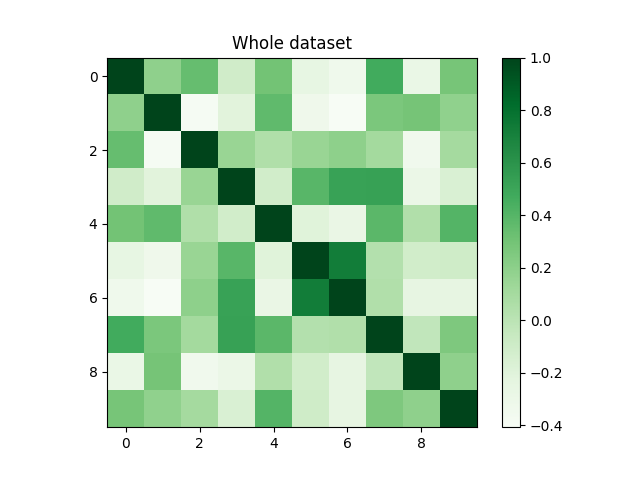
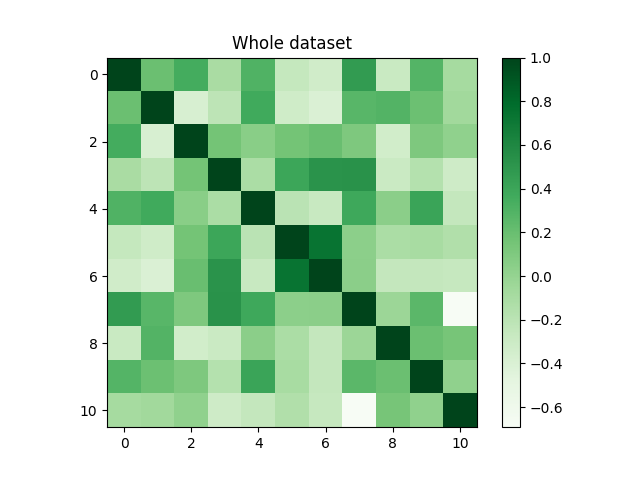
bug 11 features

diff --git a/validation_results.py b/validation_results.py
@@ -46,6 +46,11 @@ def print_table_MVG_classifiers_minDCF(DTR, LTR, prior, cost_fn, cost_fp, k):
     print("*** minDCF - RAW (normalized) FEATURES - NO PCA ***")
     MVG_Classifiers_minDCF(normalized_data)
     
+    #------------------------RAW FEATURES (normalized) WITH PCA = 10 --------------------
+    principal_components10 = redTec.PCA(normalized_data, 10)
+    print("*** minDCF - RAW (normalized) FEATURES -  PCA (m=10) ***")
+    MVG_Classifiers_minDCF(principal_components10)       
+
 
     #------------------------RAW FEATURES (normalized) WITH PCA = 9 --------------------
     principal_components9 = redTec.PCA(normalized_data, 9)
@@ -55,7 +60,7 @@ def print_table_MVG_classifiers_minDCF(DTR, LTR, prior, cost_fn, cost_fp, k):
 
     #------------------------RAW FEATURES (normalized) WITH PCA = 8 --------------------
     
-    principal_components8,_= redTec.PCA(normalized_data, 8)
+    principal_components8= redTec.PCA(normalized_data, 8)
     print("*** minDCF - RAW (normalized) FEATURES -  PCA (m=8) ***")
     MVG_Classifiers_minDCF(principal_components8)    
 
@@ -66,6 +71,11 @@ def print_table_MVG_classifiers_minDCF(DTR, LTR, prior, cost_fn, cost_fp, k):
     print("*** minDCF - GAUSSIANIZED FEATURES - NO PCA ***")
     MVG_Classifiers_minDCF(gaussianizedFeatures)
 
+    #------------------------GAUSSIANIZED FEATURES WITH PCA = 10 --------------------
+    print("*** minDCF - GAUSSIANIZED FEATURES -  PCA m=10 ***")
+    principal_components10= redTec.PCA(normalized_data, 10)
+    gaussianized_principal_components_10 = preprocessing.gaussianization(principal_components10)
+    MVG_Classifiers_minDCF(gaussianized_principal_components_10)     
 
     #------------------------GAUSSIANIZED FEATURES WITH PCA = 9 --------------------
     print("*** minDCF - GAUSSIANIZED FEATURES -  PCA m=9 ***")
@@ -298,7 +308,7 @@ def print_table_Quadratic_LR_minDCF(DTR, LTR, prior, cost_fn, cost_fp, k):
 
     def Quad_LR_minDCF(data):
             lam = 10**(-7)
-            '''
+            
             pi_T = 0.5
             min_DCF_LR,_,_ = model_validation.k_cross_DCF(data, LTR, k, logisticRegression.Quadratic_LR_logLikelihoodRatios, prior , cost_fn, cost_fp, [lam, pi_T])
             print("[5-Folds]  -  lam = 10^-7, pi_T = 0.5: ",min_DCF_LR)  
@@ -310,7 +320,7 @@ def print_table_Quadratic_LR_minDCF(DTR, LTR, prior, cost_fn, cost_fp, k):
             pi_T = 0.9
             min_DCF_LR,_,_ = model_validation.k_cross_DCF(data, LTR, k, logisticRegression.Quadratic_LR_logLikelihoodRatios, prior , cost_fn, cost_fp, [lam, pi_T])
             print("[5-Folds]  -  lam = 10^-7, pi_T = 0.9: ",min_DCF_LR)
-            '''
+            
 
             N = LTR.size #tot number of samples
             n_T = (1*(LTR==1)).sum() #num of samples belonging to the true class

diff --git a/main.py b/main.py
@@ -34,7 +34,7 @@ def load(fname):
     with open(fname) as f:
         for line in f:
             try:
-                attrs = line.split(',')[0:10]
+                attrs = line.split(',')[0:11]
                 attrs = mcol(numpy.array([float(i) for i in attrs]))
                 label = int(line.split(',')[-1].strip())
                 DList.append(attrs)
@@ -110,17 +110,17 @@ if __name__ == '__main__':
     
     
     # Plot scatters
-    '''
+    
     stats.plot_scatter(preprocessing.Z_normalization(DTR), LTR, "Raw")
     stats.plot_scatter(preprocessing.gaussianization(DTR), LTR, "Gaussianized")
-    '''
-    '''
+    
+    
     ## heat maps of the gaussianized features to show correlations between features
     stats.plot_heatmaps(preprocessing.gaussianization(DTR), LTR, "Stat/HeatMaps/Gaussianized")
     stats.plot_heatmaps(preprocessing.Z_normalization(DTR), LTR, "Stat/HeatMaps/Normalized")
     stats.plot_heatmaps(DTR, LTR, "Stat/HeatMaps/Raw")
-    '''
-    '''
+    
+    
     ##enstablish if data are balanced
     #Training
     n_high_qty = numpy.count_nonzero(LTR == 1)
@@ -133,13 +133,13 @@ if __name__ == '__main__':
     n_low_qty = numpy.count_nonzero(LTE == 0)
     stats.bars_numsamples(n_high_qty, n_low_qty, "Test")
     print("test, high:", n_high_qty, "low: ", n_low_qty)
-    '''
+    
     
     ##choose k for k cross validation
     k = 5
 
     ##VALIDATION OF THE CLASSIFIERS : 
-    #validation_results.print_all(DTR, LTR, k)
+    validation_results.print_all(DTR, LTR, k)
 
     ##EVALUATION OF THE CLASSIFIERS :
     '''

diff --git a/report.md b/report.md
@@ -20,7 +20,10 @@ The training set contains 613 samples belonging to the "high quality" class and 
 
 In the following graphs are shown the comparisons between the number of samples of the two classes in both training and test data set. It is visible that both the number of samples and the ratio between the two classes in the different data sets is close.
 
-<img src="Stat\hist_number_of_data_Training.png" style="zoom: 67%;" /> <img src="Stat\hist_number_of_data_Test.png" style="zoom: 67%;" />
+| <img src="Stat\hist_number_of_data_Training.png" style="zoom: 67%;" /> | <img src="Stat\hist_number_of_data_Test.png" style="zoom: 67%;" /> |
+| ------------------------------------------------------------ | ------------------------------------------------------------ |
+
+
 
 
 
@@ -56,7 +59,7 @@ The histograms below show the distributions of the training dataset features. Or
 | :----------------------------------------------------------: | ------------------------------------------------------------ | ------------------------------------------------------------ |
 | <img src="Stat\Hist\Normalized\hist_3.png" style="zoom:67%;" /> | <img src="Stat\Hist\Normalized\hist_4.png" style="zoom:67%;" /> | <img src="Stat\Hist\Normalized\hist_5.png" style="zoom:67%;" /> |
 | <img src="Stat\Hist\Normalized\hist_6.png" style="zoom:67%;" /> | <img src="Stat\Hist\Normalized\hist_7.png" style="zoom:67%;" /> | <img src="Stat\Hist\Normalized\hist_8.png" style="zoom:67%;" /> |
-| <img src="Stat\Hist\Normalized\hist_9.png" style="zoom:60%;" /> | <img src="Stat\Hist\Normalized\hist_9.png" style="zoom: 67%;" /> |                                                              |
+| <img src="Stat\Hist\Normalized\hist_9.png" style="zoom:60%;" /> | <img src="Stat\Hist\Normalized\hist_10.png" style="zoom: 67%;" /> |                                                              |
 
 The analysis of the training data reveals that most of the features have an irregular distribution.
 
@@ -74,7 +77,7 @@ The histograms below show the distributions of the gaussianized features.
 | :----------------------------------------------------------: | ------------------------------------------------------------ | ------------------------------------------------------------ |
 | <img src="Stat\Hist\Gaussianized\hist_3.png" style="zoom:67%;" /> | <img src="Stat\Hist\Gaussianized\hist_4.png" style="zoom:67%;" /> | <img src="Stat\Hist\Gaussianized\hist_5.png" style="zoom:67%;" /> |
 | <img src="Stat\Hist\Gaussianized\hist_6.png" style="zoom:67%;" /> | <img src="Stat\Hist\Gaussianized\hist_7.png" style="zoom:67%;" /> | <img src="Stat\Hist\Gaussianized\hist_8.png" style="zoom:67%;" /> |
-| <img src="Stat\Hist\Gaussianized\hist_9.png" style="zoom:60%;" /> | <img src="Stat\Hist\Gaussianized\hist_9.png" style="zoom: 67%;" /> |                                                              |
+| <img src="Stat\Hist\Gaussianized\hist_9.png" style="zoom:60%;" /> | <img src="Stat\Hist\Gaussianized\hist_10.png" style="zoom: 67%;" /> |                                                              |
 
 A correlation analysis of the Gaussianized features shows that feature 5 and 6 are strongly correlated.
 
@@ -102,39 +105,49 @@ In a second moment, the K-Fold approach has been used to get more robust result.
 This because, in the K- Fold, iteratively the training set has been split into 5 folds, 4 used for training and 1 for validation, after being shuffled. At the end, the validation scores are put together and used to compute the performance metrics. In this way, there is more data available for training and validation. 
 
 ## * MVG classifiers  
-|                                       | **Single Fold** |             |             | **5-Fold**  |             |             |
-| :-----------------------------------: | --------------- | ----------- | ----------- | ----------- | ----------- | ----------- |
-|                                       | prior=0.5       | prior=0.1   | prior=0.9   | prior=0.5   | prior=0.1   | prior=0.9   |
-|       **Raw Features – no PCA**       | --------------- | ----------- | ----------- | ----------- | ----------- | ----------- |
-|            **Full - Cov**             | *0.346*         | 0.766       | 0.824       | *0.343*     | 0.795       | 0.906       |
-|             **Diag -Cov**             | 0.527           | 0.911       | 0.937       | 0.548       | 0.962       | 0.973       |
-|           **Tied Full-Cov**           | *0.355*         | 0.818       | 0.836       | *0.359*     | 0.843       | 0.827       |
-|          **Tied Diag- Cov**           | 0.521           | 0.913       | 0.983       | 0.543       | 0.970       | 0.952       |
-|  **Gaussianized Features – no PCA**   | -----------     | ----------- | ----------- | ----------- | ----------- | ----------- |
-|            **Full - Cov**             | *0.277*         | 0.791       | 0.824       | *0.306*     | 0.772       | 0.871       |
-|             **Diag -Cov**             | 0.497           | 0.901       | 0.963       | 0.516       | 0.927       | 0.975       |
-|           **Tied Full-Cov**           | 0.355           | 0.889       | 0.906       | 0.379       | 0.810       | 0.928       |
-|          **Tied Diag- Cov**           | 0.529           | 0.913       | 0.992       | 0.543       | 0.958       | 0.995       |
-|     **Raw Features – PCA (m=9)**      | -----------     | ----------- | ----------- | ----------- | ----------- | ----------- |
-|            **Full - Cov**             | 0.417           | 0.858       | 0.884       | 0.425       | 0.915       | 0.959       |
-|             **Diag -Cov**             | 0.469           | 0.910       | 0.963       | 0.517       | 0.937       | 0.986       |
-|           **Tied Full-Cov**           | 0.469           | 0.934       | 0.915       | 0.489       | 0.951       | 0.816       |
-|          **Tied Diag- Cov**           | 0.467           | 0.934       | 0.915       | 0.491       | 0.960       | 0.921       |
-| **Gaussianized Features – PCA (m=9)** | -----------     | ----------- | ----------- | ----------- | ----------- | ----------- |
-|            **Full - Cov**             | 0.398           | 0.838       | 0.872       | 0.419       | 0.911       | 0.969       |
-|             **Diag -Cov**             | 0.455           | 0.904       | 0.956       | 0.489       | 0.943       | 0.974       |
-|           **Tied Full-Cov**           | 0.469           | 0.945       | 0.935       | 0.490       | 0.938       | 0.931       |
-|          **Tied Diag- Cov**           | 0.465           | 0.909       | 0.920       | 0.495       | 0.934       | 0.938       |
-|     **Raw Features – PCA (m=8)**      | -----------     | ----------- | ----------- | ----------- | ----------- | ----------- |
-|            **Full - Cov**             | 0.421           | 0.949       | 0.915       | 0.477       | 0.990       | 0.948       |
-|             **Diag -Cov**             | 0.552           | 0.979       | 0.968       | 0.598       | 0.985       | 0.986       |
-|           **Tied Full-Cov**           | 0.504           | 0.964       | 0.887       | 0.535       | 0.982       | 0.807       |
-|          **Tied Diag- Cov**           | 0.517           | 0.964       | 0.843       | 0.537       | 0.983       | 0.893       |
-| **Gaussianized Features – PCA (m=8)** | -----------     | ----------- | ----------- | ----------- | ----------- | ----------- |
-|            **Full - Cov**             | 0.426           | 0.902       | 0.891       | 0.471       | 0.988       | 0.946       |
-|             **Diag -Cov**             | 0.526           | 0.959       | 0.920       | 0.563       | 0.982       | 0.961       |
-|           **Tied Full-Cov**           | 0.497           | 0.984       | 0.911       | 0.510       | 0.973       | 0.930       |
-|          **Tied Diag- Cov**           | 0.528           | 0.974       | 0.860       | 0.535       | 0.990       | 0.919       |
+|                                        | **Single Fold** |             |             | **5-Fold**  |             |             |
+| :------------------------------------: | --------------- | ----------- | ----------- | ----------- | ----------- | ----------- |
+|                                        | prior=0.5       | prior=0.1   | prior=0.9   | prior=0.5   | prior=0.1   | prior=0.9   |
+|       **Raw Features – no PCA**        | -------------   | ----------- | ----------- | ----------- | ----------- | ----------- |
+|             **Full - Cov**             | *0.346*         | 0.766       | 0.824       | *0.343*     | 0.795       | 0.906       |
+|             **Diag -Cov**              | 0.527           | 0.911       | 0.937       | 0.548       | 0.962       | 0.973       |
+|           **Tied Full-Cov**            | *0.355*         | 0.818       | 0.836       | *0.359*     | 0.843       | 0.827       |
+|           **Tied Diag- Cov**           | 0.521           | 0.913       | 0.983       | 0.543       | 0.970       | 0.952       |
+|   **Gaussianized Features – no PCA**   | -----------     | ----------- | ----------- | ----------- | ----------- | ----------- |
+|             **Full - Cov**             | *0.277*         | 0.791       | 0.824       | *0.306*     | 0.772       | 0.871       |
+|             **Diag -Cov**              | 0.497           | 0.901       | 0.963       | 0.516       | 0.927       | 0.975       |
+|           **Tied Full-Cov**            | 0.355           | 0.889       | 0.906       | 0.379       | 0.810       | 0.928       |
+|           **Tied Diag- Cov**           | 0.529           | 0.913       | 0.992       | 0.543       | 0.958       | 0.995       |
+|     **Raw Features – PCA (m=10)**      | -----------     | ----------- | ----------- | ----------- | ----------- | ----------- |
+|             **Full - Cov**             | 0.346           | 0.766       | 0.824       | 0.343       | 0.795       | 0.906       |
+|             **Diag -Cov**              | 0.396           | 0.786       | 0.947       | 0.409       | 0.867       | 0.951       |
+|           **Tied Full-Cov**            | 0.355           | 0.818       | 0.836       | 0.359       | 0.843       | 0.827       |
+|           **Tied Diag- Cov**           | 0.358           | 0.794       | 0.850       | 0.356       | 0.830       | 0.832       |
+| **Gaussianized Features – PCA (m=10)** | -----------     | ----------- | ----------- | ----------- | ----------- | ----------- |
+|             **Full - Cov**             | 0.320           | 0.748       | 0.853       | 0.331       | 0.786       | 0.918       |
+|             **Diag -Cov**              | 0.377           | 0.845       | 0.896       | 0.377       | 0.841       | 0.898       |
+|           **Tied Full-Cov**            | 0.365           | 0.853       | 0.875       | 0.362       | 0.846       | 0.836       |
+|           **Tied Diag- Cov**           | 0.357           | 0.831       | 0.877       | 0.361       | 0.852       | 0.881       |
+|      **Raw Features – PCA (m=9)**      | -----------     | ----------- | ----------- | ----------- | ----------- | ----------- |
+|             **Full - Cov**             | 0.417           | 0.858       | 0.884       | 0.425       | 0.915       | 0.959       |
+|             **Diag -Cov**              | 0.469           | 0.910       | 0.963       | 0.517       | 0.937       | 0.986       |
+|           **Tied Full-Cov**            | 0.469           | 0.934       | 0.915       | 0.489       | 0.951       | 0.816       |
+|           **Tied Diag- Cov**           | 0.467           | 0.934       | 0.915       | 0.491       | 0.960       | 0.921       |
+| **Gaussianized Features – PCA (m=9)**  | -----------     | ----------- | ----------- | ----------- | ----------- | ----------- |
+|             **Full - Cov**             | 0.398           | 0.838       | 0.872       | 0.419       | 0.911       | 0.969       |
+|             **Diag -Cov**              | 0.455           | 0.904       | 0.956       | 0.489       | 0.943       | 0.974       |
+|           **Tied Full-Cov**            | 0.469           | 0.945       | 0.935       | 0.490       | 0.938       | 0.931       |
+|           **Tied Diag- Cov**           | 0.465           | 0.909       | 0.920       | 0.495       | 0.934       | 0.938       |
+|      **Raw Features – PCA (m=8)**      | -----------     | ----------- | ----------- | ----------- | ----------- | ----------- |
+|             **Full - Cov**             | 0.421           | 0.949       | 0.915       | 0.477       | 0.990       | 0.948       |
+|             **Diag -Cov**              | 0.552           | 0.979       | 0.968       | 0.598       | 0.985       | 0.986       |
+|           **Tied Full-Cov**            | 0.504           | 0.964       | 0.887       | 0.535       | 0.982       | 0.807       |
+|           **Tied Diag- Cov**           | 0.517           | 0.964       | 0.843       | 0.537       | 0.983       | 0.893       |
+| **Gaussianized Features – PCA (m=8)**  | -----------     | ----------- | ----------- | ----------- | ----------- | ----------- |
+|             **Full - Cov**             | 0.426           | 0.902       | 0.891       | 0.471       | 0.988       | 0.946       |
+|             **Diag -Cov**              | 0.526           | 0.959       | 0.920       | 0.563       | 0.982       | 0.961       |
+|           **Tied Full-Cov**            | 0.497           | 0.984       | 0.911       | 0.510       | 0.973       | 0.930       |
+|           **Tied Diag- Cov**           | 0.528           | 0.974       | 0.860       | 0.535       | 0.990       | 0.919       |
 
 notes:
 
